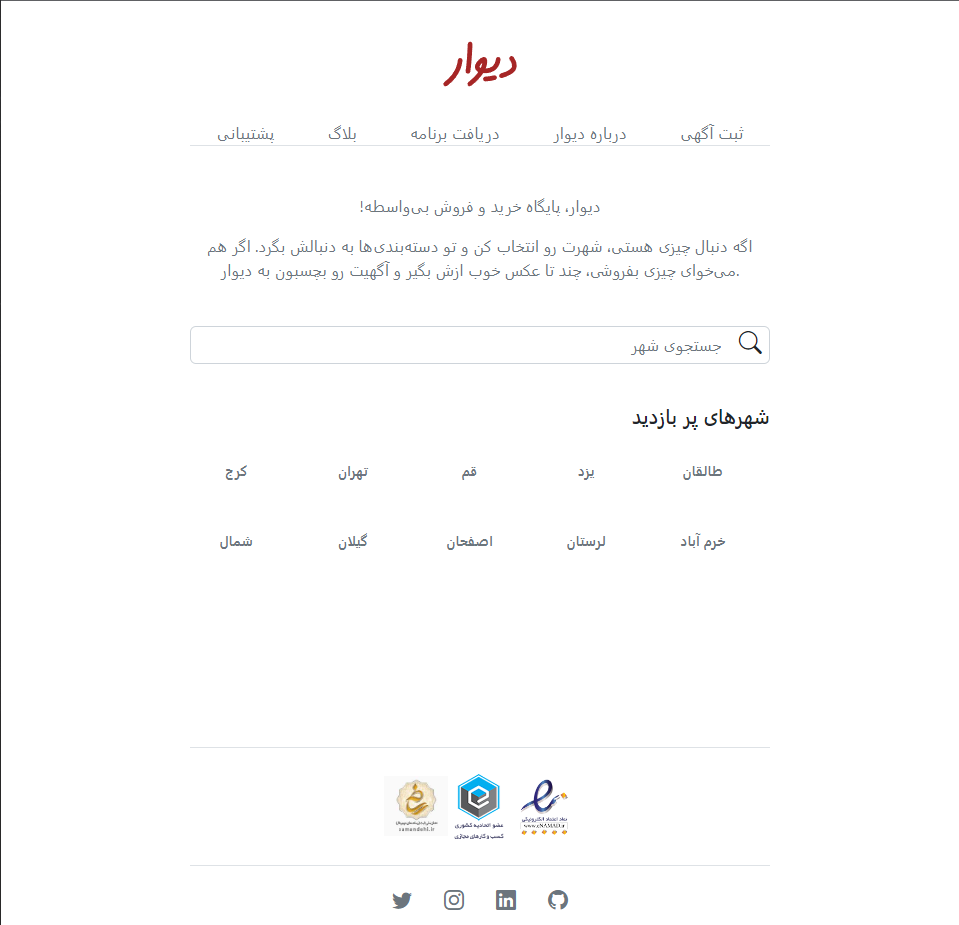
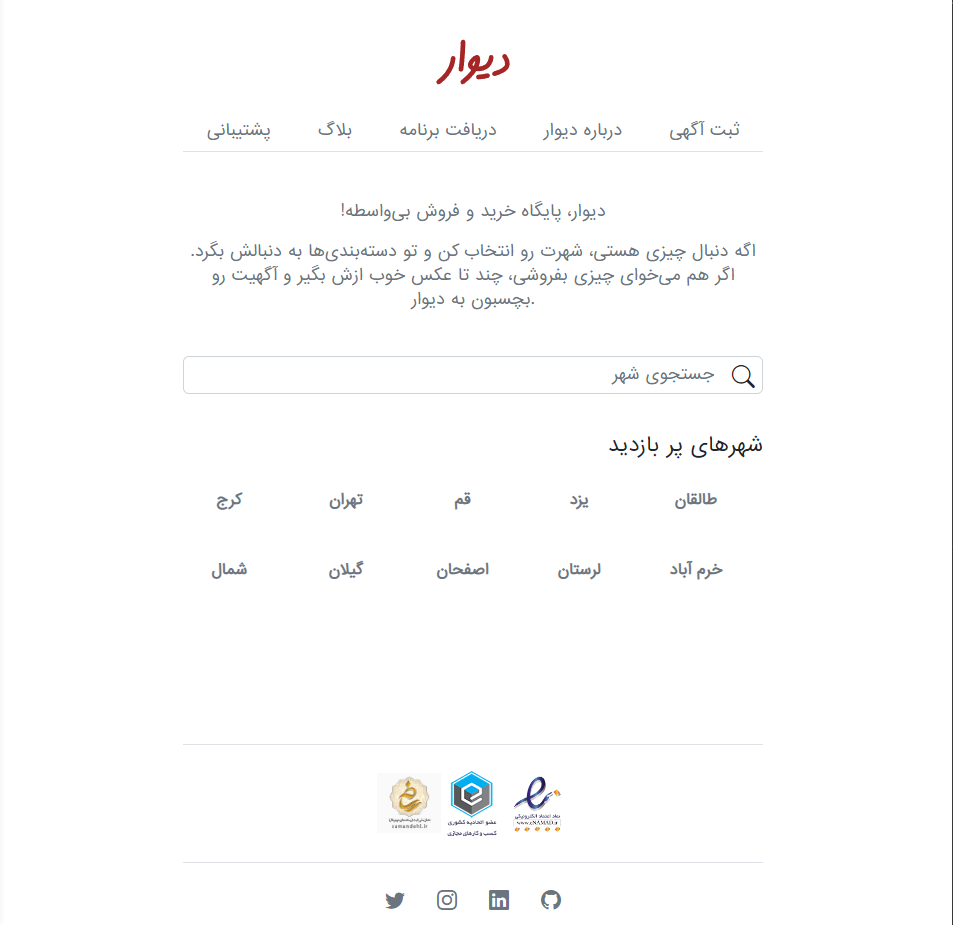
add font to divar

diff --git a/Indexs-pages/01-Divar/divar-First-index/index.html b/Indexs-pages/01-Divar/divar-First-index/index.html
@@ -36,13 +36,14 @@
               />
             </div>
             <div
-              class="mt-3 border-bottom border-1 d-flex flex-row-reverse justify-content-around w-100"
+              class="mt-3 pb-2  border-bottom border-1 d-flex flex-row-reverse justify-content-around w-100"
             >
               <a class="text-muted" href="">ثبت آگهی</a>
               <a class="text-muted" href="">درباره دیوار</a>
               <a class="text-muted" href="">دریافت برنامه</a>
               <a class="text-muted" href="">بلاگ</a>
               <a class="text-muted" href="">پشتیبانی</a>
+            
             </div>
             <!-- END Header  -->
             <!-- start Media -->

diff --git a/Indexs-pages/01-Divar/divar-First-index/CSS/main.css b/Indexs-pages/01-Divar/divar-First-index/CSS/main.css
@@ -4,7 +4,7 @@
     src: url('../fonts/sans1.ttf');
 }
 
-html{
-        font-family:sans !important;
-        font-family: arial,sans-serif;
+:root{
+        font-weight: bold;
+        --bs-font-sans-serif :sans !important;
 }
